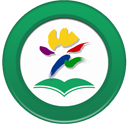
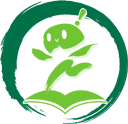
updated assets

diff --git a/background.js b/background.js
@@ -60,7 +60,7 @@ chrome.action.onClicked.addListener(async (tab) => {
                 let messge= today_count===1?`You have ${today_count} assignment due today.`:`You have ${today_count} assignments due today.`;
                 chrome.notifications.create({
                 type:'basic',
-                iconUrl:'images/ndhu-logo.png',
+                iconUrl:'images/elearn-assist-logo.png',
                 title:'Assignment Assistant',
                 message:messge,
                 buttons:[{title:'Dismiss'}],
@@ -125,7 +125,7 @@ chrome.alarms.onAlarm.addListener((alarm)=>{
         console.log(message);
         chrome.notifications.create({
         type:'basic',
-        iconUrl:'images/ndhu-logo.png',
+        iconUrl:'images/elearn-assist-logo.png',
         title:'Assignment Assistant',
         message:message,
         buttons:[{title:'Dismiss'}],

diff --git a/popup.html b/popup.html
@@ -33,7 +33,7 @@
       </div>
       <div class="header">
         <img
-          src="images/ndhu-logo.png"
+          src="images/elearn-assist-logo.png"
           alt="The Logo for National Dong Hwa University"
         />
         <h1>NDHU Elearning Assignment Assistant</h1>
